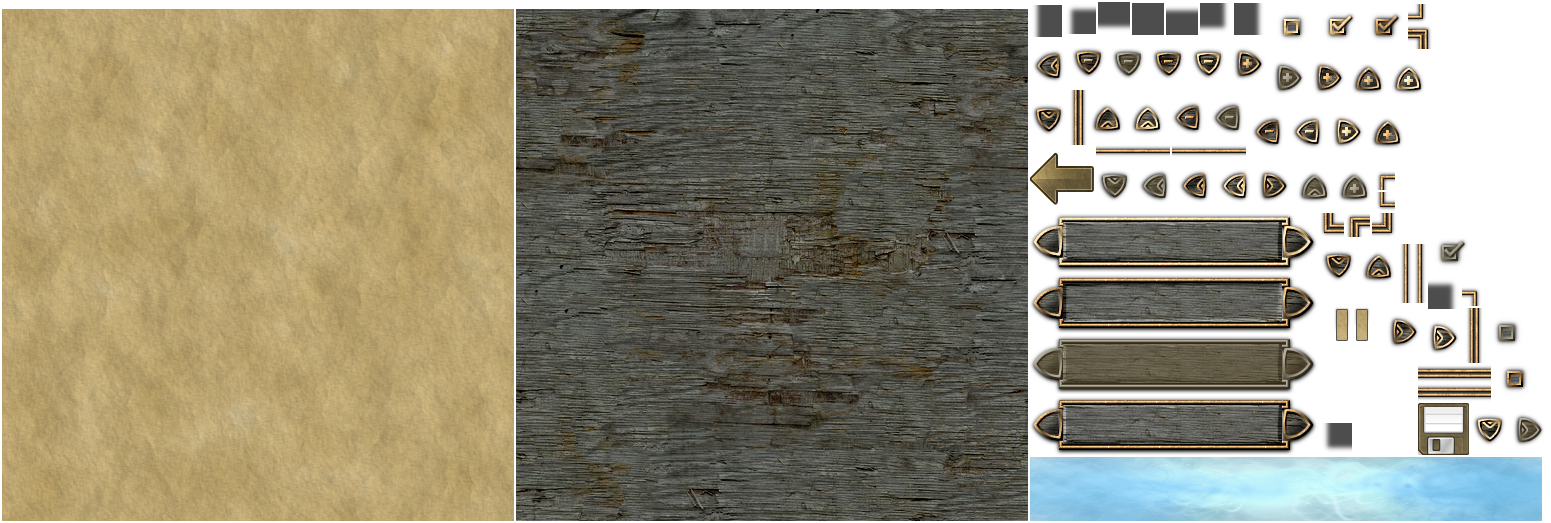
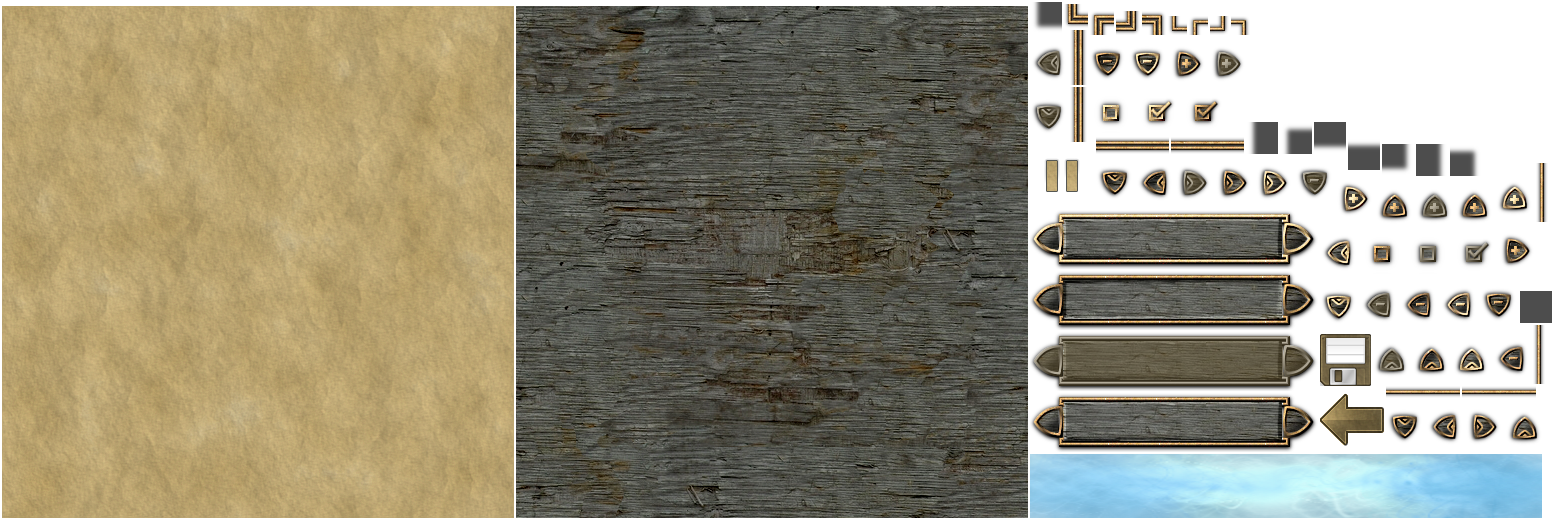
working on skin

diff --git a/core/src/de/dakror/vloxlands/ui/skin/TilesetDrawable.java b/core/src/de/dakror/vloxlands/ui/skin/TilesetDrawable.java
@@ -71,16 +71,19 @@ public class TilesetDrawable extends BaseDrawable
 		float cw = drawables[0].getMinWidth();
 		float ch = drawables[0].getMinHeight();
 		float mw = width - cw * 2;
-		float mh = width - ch * 2;
+		float mh = height - ch * 2;
 		
-		drawables[0].draw(batch, x, y, cw, ch);
-		drawables[1].draw(batch, x + cw, y, mw, ch);
-		drawables[2].draw(batch, x + width - cw, y, cw, ch);
-		drawables[3].draw(batch, x, y + ch, cw, mh);
+		float sh = drawables[1].getMinHeight();
+		float sw = drawables[3].getMinWidth();
+		
+		drawables[0].draw(batch, x, y + height - ch, cw, ch);
+		drawables[1].draw(batch, x + cw, y + height - sh, mw, sh);
+		drawables[2].draw(batch, x + width - cw, y + height - ch, cw, ch);
+		drawables[3].draw(batch, x, y + ch, sw, mh);
 		if (drawables[4] != null) drawables[4].draw(batch, x + cw, y + ch, mw, mh);
-		drawables[5].draw(batch, x + width - cw, y + ch, cw, mh);
-		drawables[6].draw(batch, x, y + height - ch, cw, ch);
-		drawables[7].draw(batch, x + cw, y + height - ch, mw, ch);
-		drawables[8].draw(batch, x + width - cw, y + height - ch, cw, ch);
+		drawables[5].draw(batch, x + width - sw, y + ch, sw, mh);
+		drawables[6].draw(batch, x, y, cw, ch);
+		drawables[7].draw(batch, x + cw, y, mw, sh);
+		drawables[8].draw(batch, x + width - cw, y, cw, ch);
 	}
 }

diff --git a/core/src/de/dakror/vloxlands/ui/MinimapIsland.java b/core/src/de/dakror/vloxlands/ui/MinimapIsland.java
@@ -35,8 +35,8 @@ public class MinimapIsland extends Actor
 		{
 			if (active)
 			{
-				Drawable d = Vloxlands.skin.getDrawable("default-rect");
-				d.draw(batch, getX() + getWidth() / 4, getY(), getWidth() / 2, getHeight());
+				Drawable d = Vloxlands.skin.getDrawable("outline");
+				d.draw(batch, (int) (getX() + getWidth() / 4), (int) getY(), (int) getWidth() / 2, (int) getHeight());
 			}
 			batch.draw(island.fbo.getColorBufferTexture(), getX(), getY(), getWidth(), getHeight(), 0, 0, island.fbo.getColorBufferTexture().getWidth(), island.fbo.getColorBufferTexture().getHeight(), false, true);
 		}
